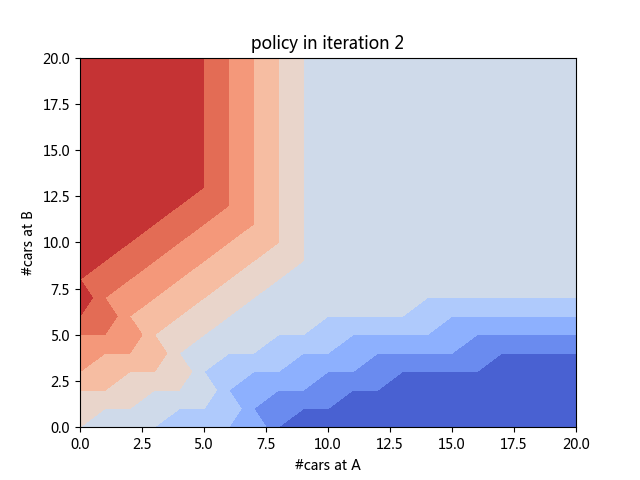
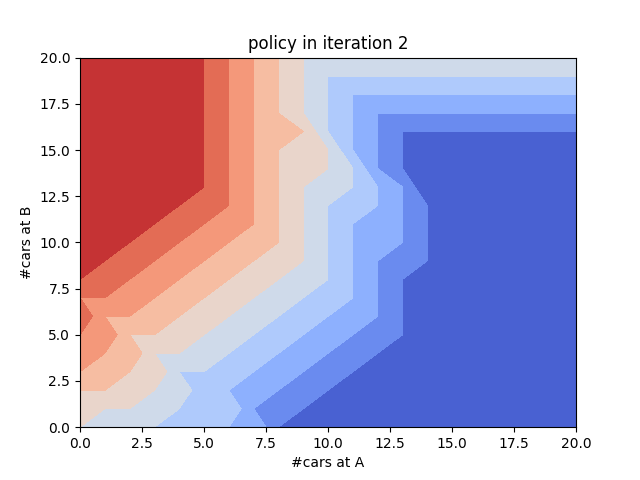
pic

diff --git a/carrental/mdp.py b/carrental/mdp.py
@@ -16,7 +16,7 @@ class MDP:
         self.actions = range(-5, 6, 1)
         self.gamma = 0.9
         self.const_rental = False
-        self.const_return = False
+        self.const_return = True
     
     def _init_states(self, max_car):
         states, states_dict, n = [], {}, 0
@@ -49,14 +49,13 @@ class MDP:
                 for stateid in range(len(self.states)):
                     actionid = self._get_action_from_policy(self.states[stateid], \
                                                             self.policy[stateid])
-                    transition = self._get_transition(self.states[stateid], \
-                                                      self.actions[actionid])
+                    transition, reward = self._get_transition_reward(self.states[stateid], \
+                                                                     self.actions[actionid])
                     for new_stateid in range(len(self.states)):
                         p = transition[new_stateid]
-                        reward = self._get_reward(self.states[stateid], self.actions[actionid], \
-                                                  self.states[new_stateid])
+                        r = reward[new_stateid]
                         new_value_function[stateid] += p * \
-                            (reward + self.gamma * self.value_function[new_stateid])
+                            (r + self.gamma * self.value_function[new_stateid])
                 self.value_function = new_value_function
                 if self._can_exit(last_value_function, self.value_function):
                     break
@@ -69,14 +68,12 @@ class MDP:
                 for actionid in range(len(self.actions)):
                     if self.actions[actionid] in valid_actions:
                         action_value = 0.0
-                        transition = self._get_transition(self.states[stateid], \
-                                                          self.actions[actionid])
+                        transition, reward = self._get_transition_reward(self.states[stateid], \
+                                                                         self.actions[actionid])
                         for new_stateid in range(len(self.states)):
                             p = transition[new_stateid]
-                            reward = self._get_reward(self.states[stateid], \
-                                                      self.actions[actionid], \
-                                                      self.states[new_stateid])
-                            action_value += p * (reward + self.gamma * \
+                            r = reward[new_stateid]
+                            action_value += p * (r + self.gamma * \
                                                  self.value_function[new_stateid])
                         if action_value >= max_value:
                             max_action = actionid
@@ -115,18 +112,20 @@ class MDP:
             self.poissonBackup[key] = math.exp(-lam) * pow(lam, n) / math.factorial(n)
         return self.poissonBackup[key]
     
-    def _get_transition(self, state, action):
+    def _get_transition_reward(self, state, action):
         state = [int(t) for t in state.split('#')]
         state[0] -= action
         state[1] += action
         transition = numpy.zeros((len(self.states), ), dtype='float')
+        reward = numpy.zeros((len(self.states), ), dtype='float')
         if self.const_rental:
-            temp_state = [state[0] - min(state[0], 3), \
-                          state[1] - min(state[1], 4)]
-            new_state = [temp_state[0] + min(3, min(state[0], 3)), \
-                         temp_state[1] + min(2, min(state[1], 4))]
+            rentala, rentalb = min(state[0], 3), min(state[1], 4)
+            temp_state = [state[0] - rentala, state[1] - rentalb]
+            new_state = [temp_state[0] + min(3, rentala), \
+                         temp_state[1] + min(2, rentalb)]
             new_stateid = self.states_dict['%i#%i' % (new_state[0], new_state[1])]
             transition[new_stateid] = 1.0
+            reward[new_stateid] = action * (-2) + (rentala + rentalb) * 10
         else:
             for rentala in range(0, state[0]+1):
                 for rentalb in range(0, state[1]+1):
@@ -147,17 +146,9 @@ class MDP:
                                 transition[new_stateid] = self._poisson(rentala, 3) * \
                                     self._poisson(rentalb, 4) * self._poisson(returna, 3) * \
                                     self._poisson(returnb, 2)
+                    reward[new_stateid] = (action * (-2) + (rentala + rentalb) * 10)
                     
-        return transition
-    
-    def _get_reward(self, state, action, new_state):
-        new_state = [int(t) for t in new_state.split('#')]
-        reward = 0
-        reward -= abs(action) * 2 # 车辆转移支出
-        reward += min(new_state[0], 3) * 10 # A地出租收入
-        reward += min(new_state[1], 4) * 10 # B地出租收入
-            
-        return reward
+        return transition, reward
         
     def _plot_value_function(self, value_function, n_iter):
         value_matrix = numpy.zeros((self.max_car+1, self.max_car+1), dtype='float')
